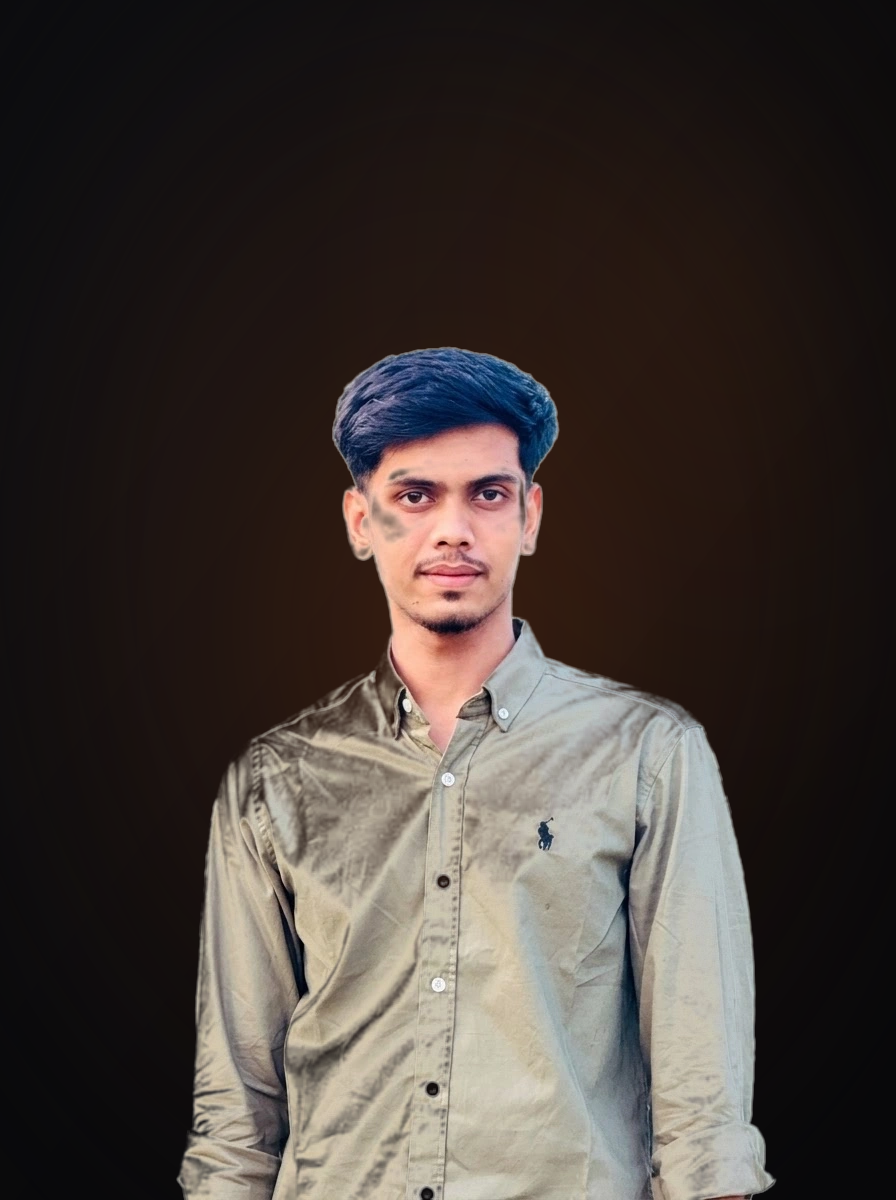
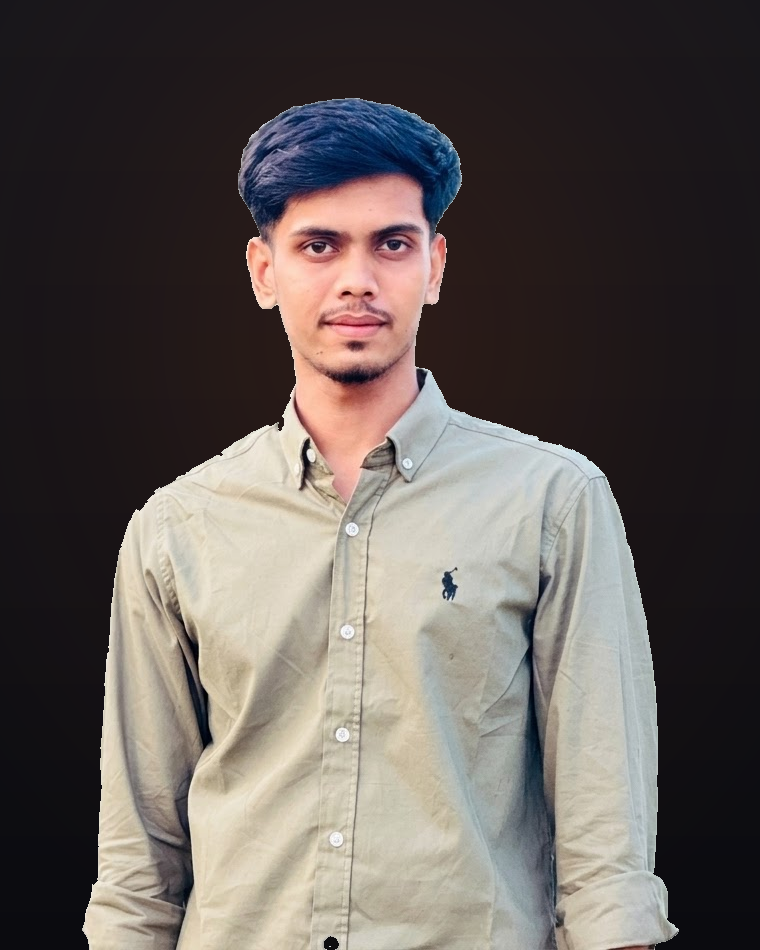
Update portfolio images and contact sections

diff --git a/apps/web/app/portfolio.css b/apps/web/app/portfolio.css
@@ -81,6 +81,42 @@ section[id] {
   color: transparent;
 }
 
+/* Section backdrops tuned to the site palette (--ink #08080a, --brand-orange #ff6b1a) */
+.hero-section-bg {
+  background:
+    radial-gradient(
+      ellipse 62% 58% at 78% 36%,
+      rgba(255, 107, 26, 0.09),
+      transparent 70%
+    ),
+    radial-gradient(
+      ellipse 48% 42% at 10% 88%,
+      rgba(255, 107, 26, 0.055),
+      transparent 70%
+    ),
+    linear-gradient(
+      180deg,
+      rgba(15, 15, 19, 0.72) 0%,
+      rgba(8, 8, 10, 0.34) 55%,
+      rgba(8, 8, 10, 0.72) 100%
+    );
+}
+
+.contact-section-bg {
+  background:
+    radial-gradient(
+      ellipse 58% 62% at 50% 48%,
+      rgba(255, 107, 26, 0.075),
+      transparent 70%
+    ),
+    linear-gradient(
+      180deg,
+      rgba(8, 8, 10, 0.18) 0%,
+      rgba(14, 14, 18, 0.78) 46%,
+      rgba(8, 8, 10, 0.28) 100%
+    );
+}
+
 .orange-glow {
   box-shadow: 0 0 30px rgba(255, 107, 26, 0.28);
 }

diff --git a/apps/web/components/hero-section.tsx b/apps/web/components/hero-section.tsx
@@ -12,7 +12,7 @@ export function HeroSection() {
   return (
     <section
       id="home"
-      className="relative flex min-h-screen items-center overflow-hidden pb-20 pt-28 sm:pt-32"
+      className="hero-section-bg relative flex min-h-screen items-center overflow-hidden pb-20 pt-28 sm:pt-32"
     >
       <div className="mx-auto grid w-full max-w-6xl items-center gap-14 px-5 sm:px-8 lg:grid-cols-[1.05fr_0.95fr] lg:gap-10 lg:px-12">
         <div className="relative z-10">

diff --git a/apps/web/components/contact-section.tsx b/apps/web/components/contact-section.tsx
@@ -60,7 +60,7 @@ const cards: ContactCard[] = [
 
 export function ContactSection() {
   return (
-    <section id="contact" className="relative py-24 sm:py-28 lg:py-32">
+    <section id="contact" className="contact-section-bg relative py-24 sm:py-28 lg:py-32">
       <div
         aria-hidden="true"
         className="pointer-events-none absolute left-1/2 top-1/2 h-[26rem] w-[40rem] -translate-x-1/2 -translate-y-1/2 rounded-full bg-orange-600/[0.07] blur-[110px]"

diff --git a/apps/web/components/about-section.tsx b/apps/web/components/about-section.tsx
@@ -34,7 +34,7 @@ export function AboutSection() {
                     fill
                     unoptimized
                     sizes="(max-width: 1024px) 80vw, 380px"
-                    className="object-contain"
+                    className="object-cover"
                   />
                   <div className="pointer-events-none absolute inset-0 bg-gradient-to-t from-[#08080a]/55 via-transparent to-transparent" />
                 </div>
